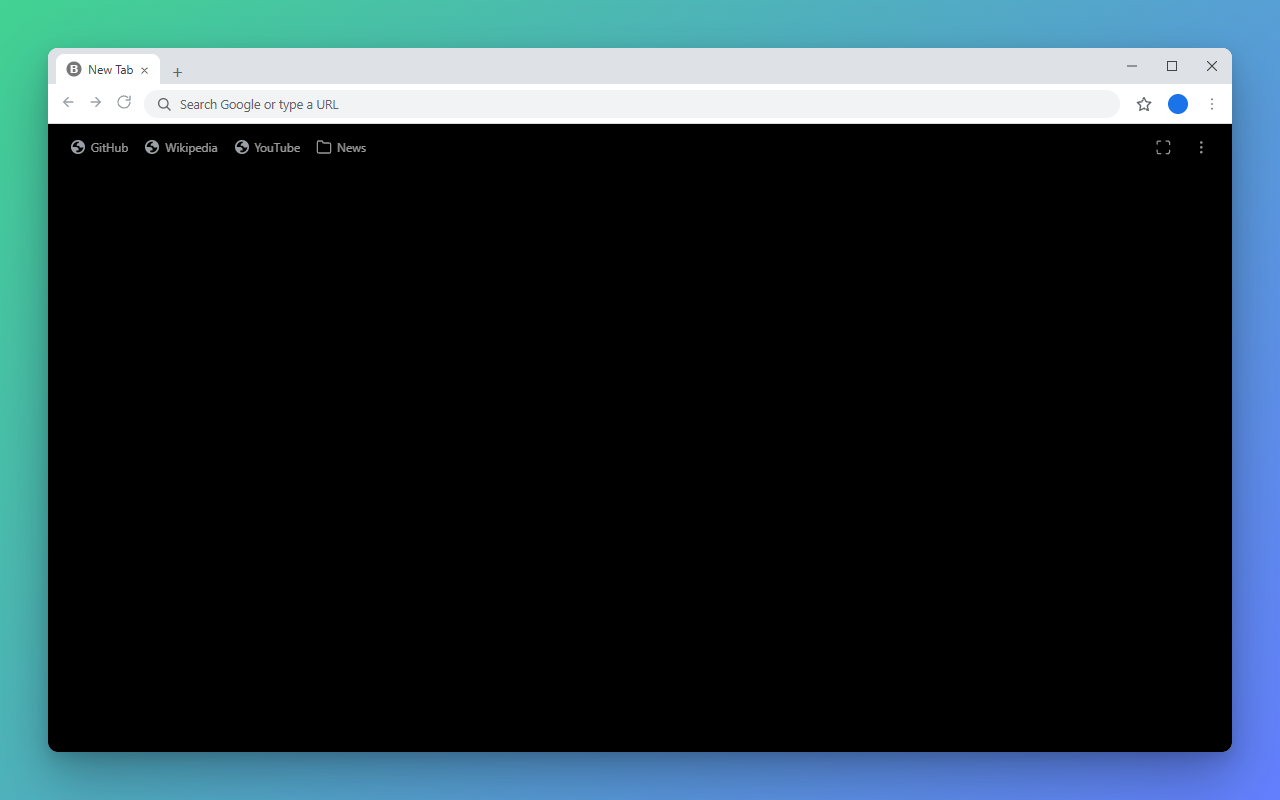
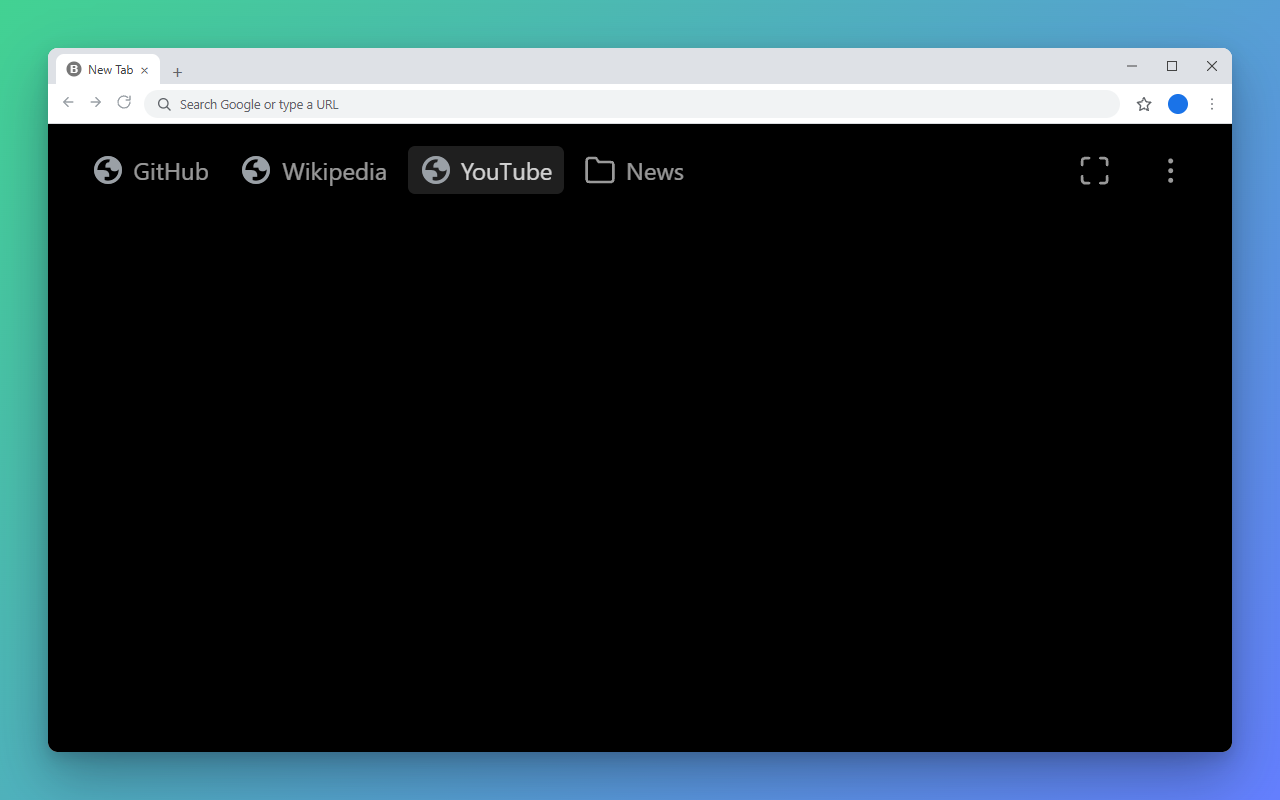
Capture screenshots at 2x zoom for a more legible README thumbnail
The extension page in each screenshot was captured at its real
1:1 size, so once shrunk to a ~380px-wide README thumbnail the
bookmarks bar text/icons and the Settings modal were hard to make
out.

Capture that content at half its final CSS viewport size with a
matching 2x deviceScaleFactor instead — the same trick as setting a
display to 200% scaling. Fixed-size UI ends up rendered
proportionally larger relative to the frame around it, while the
output pixel dimensions (and the Chrome Web Store's required
1280x800) are unchanged. Applies to both the framed scenario shots
and the frameless fullscreen one.

Regenerated store/screenshot/*.png via `node hack/screenshot.js`.

Changed region(s): [[0.1875, 0.1562, 0.5312, 0.25], [0.0625, 0.1562, 0.1562, 0.25], [0.8438, 0.1875, 0.875, 0.25]]

diff --git a/hack/screenshot.js b/hack/screenshot.js
@@ -42,6 +42,15 @@ const TAB_STRIP_HEIGHT = 36;
 const TOOLBAR_HEIGHT = 40;
 const CONTENT_HEIGHT = WINDOW_HEIGHT - TAB_STRIP_HEIGHT - TOOLBAR_HEIGHT;
 
+// The extension's own page (everything below, not the mock browser chrome
+// around it) is captured at half its final size in CSS pixels but twice the
+// device scale factor — the same trick as setting a display to 200%
+// scaling. Its fixed-size UI (bookmarks bar text/icons, the Settings modal)
+// ends up rendered proportionally larger, so it's still legible once these
+// screenshots are shrunk down for the README, while the output pixel
+// dimensions — and the Chrome Web Store's required 1280x800 — don't change.
+const CONTENT_ZOOM = 2;
+
 const SAMPLE_BOOKMARKS = [
     { title: 'GitHub', url: 'https://github.com' },
     { title: 'Wikipedia', url: 'https://www.wikipedia.org' },
@@ -253,13 +262,19 @@ function buildFrameHtml({ contentDataUri, faviconDataUri }) {
 // filling the full 1280x800 canvas, the same as it fills the actual screen.
 async function captureFullscreenScreenshot(browser) {
     const page = await browser.newPage();
-    await page.setViewport({ width: FRAME_WIDTH, height: FRAME_HEIGHT, deviceScaleFactor: 1 });
+    await page.setViewport({
+        width: FRAME_WIDTH / CONTENT_ZOOM,
+        height: FRAME_HEIGHT / CONTENT_ZOOM,
+        deviceScaleFactor: CONTENT_ZOOM,
+    });
     await page.goto('chrome://newtab/', { waitUntil: 'networkidle0' });
     await page.evaluate(() => localStorage.setItem('bookmarksVisible', 'false'));
     await page.reload({ waitUntil: 'networkidle0' });
 
-    await page.mouse.move(FRAME_WIDTH / 2, 10);
-    await page.mouse.move(FRAME_WIDTH / 2 + 1, 11);
+    // Mouse coordinates are in CSS pixels — the (zoomed-out) viewport size,
+    // not the final FRAME_WIDTH/HEIGHT pixel output.
+    await page.mouse.move(FRAME_WIDTH / CONTENT_ZOOM / 2, 10);
+    await page.mouse.move(FRAME_WIDTH / CONTENT_ZOOM / 2 + 1, 11);
     await page.waitForSelector('.fullscreen-button');
     await page.click('.fullscreen-button');
     await new Promise((resolve) => setTimeout(resolve, 300));
@@ -281,9 +296,10 @@ async function captureScenario(page, { bookmarksVisible, openSettings }) {
     await page.evaluate((visible) => localStorage.setItem('bookmarksVisible', String(visible)), bookmarksVisible);
     await page.reload({ waitUntil: 'networkidle0' });
 
-    // Reveal the top bar.
-    await page.mouse.move(WINDOW_WIDTH / 2, 10);
-    await page.mouse.move(WINDOW_WIDTH / 2 + 1, 11);
+    // Reveal the top bar. Coordinates are in CSS pixels, i.e. the zoomed-out
+    // viewport size, not WINDOW_WIDTH (the eventual output pixel width).
+    await page.mouse.move(WINDOW_WIDTH / CONTENT_ZOOM / 2, 10);
+    await page.mouse.move(WINDOW_WIDTH / CONTENT_ZOOM / 2 + 1, 11);
     await page.waitForSelector('.options-toggle');
 
     if (bookmarksVisible) {
@@ -317,9 +333,13 @@ async function main() {
             `--user-data-dir=${profileDir}`,
             '--no-first-run',
             '--no-default-browser-check',
-            `--window-size=${WINDOW_WIDTH},${CONTENT_HEIGHT + 100}`,
+            `--window-size=${WINDOW_WIDTH / CONTENT_ZOOM},${CONTENT_HEIGHT / CONTENT_ZOOM + 100}`,
         ],
-        defaultViewport: { width: WINDOW_WIDTH, height: CONTENT_HEIGHT },
+        defaultViewport: {
+            width: WINDOW_WIDTH / CONTENT_ZOOM,
+            height: CONTENT_HEIGHT / CONTENT_ZOOM,
+            deviceScaleFactor: CONTENT_ZOOM,
+        },
     });
 
     try {
